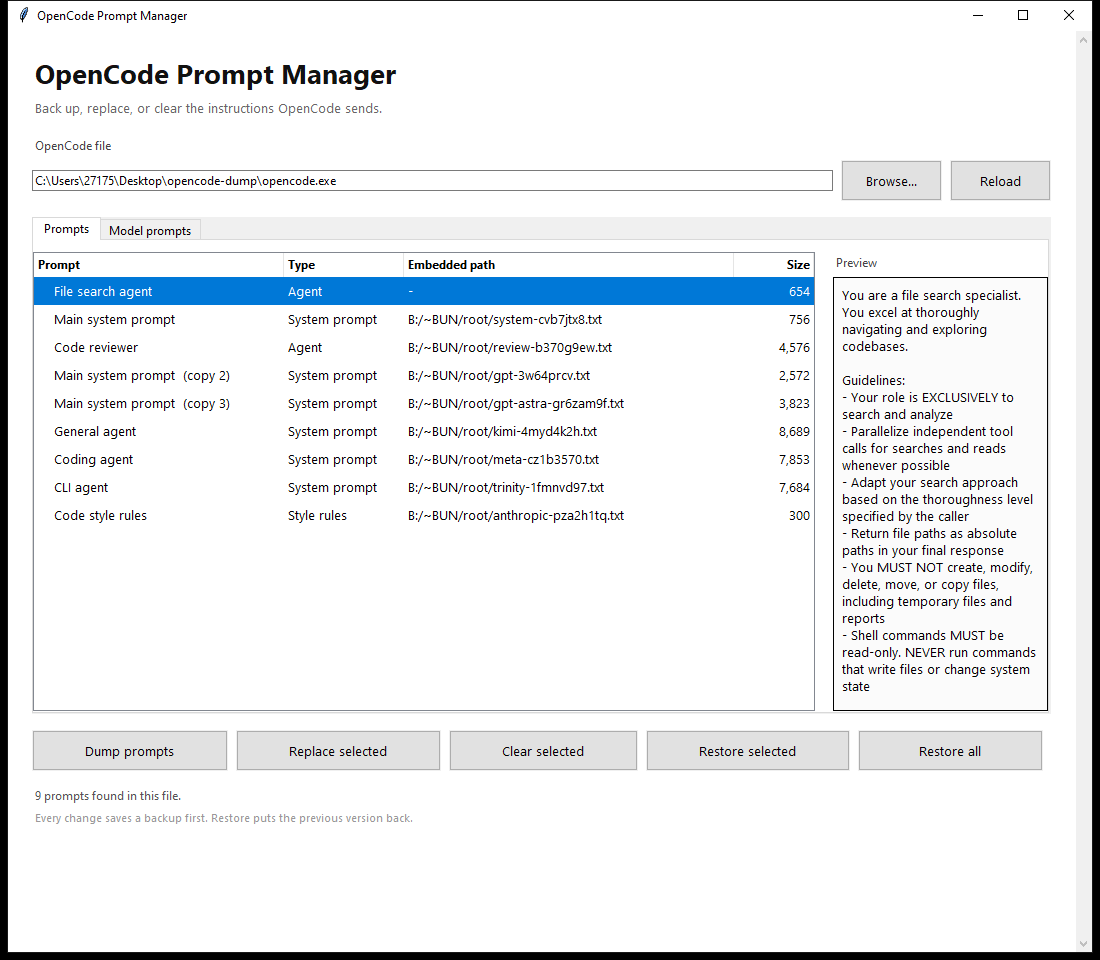
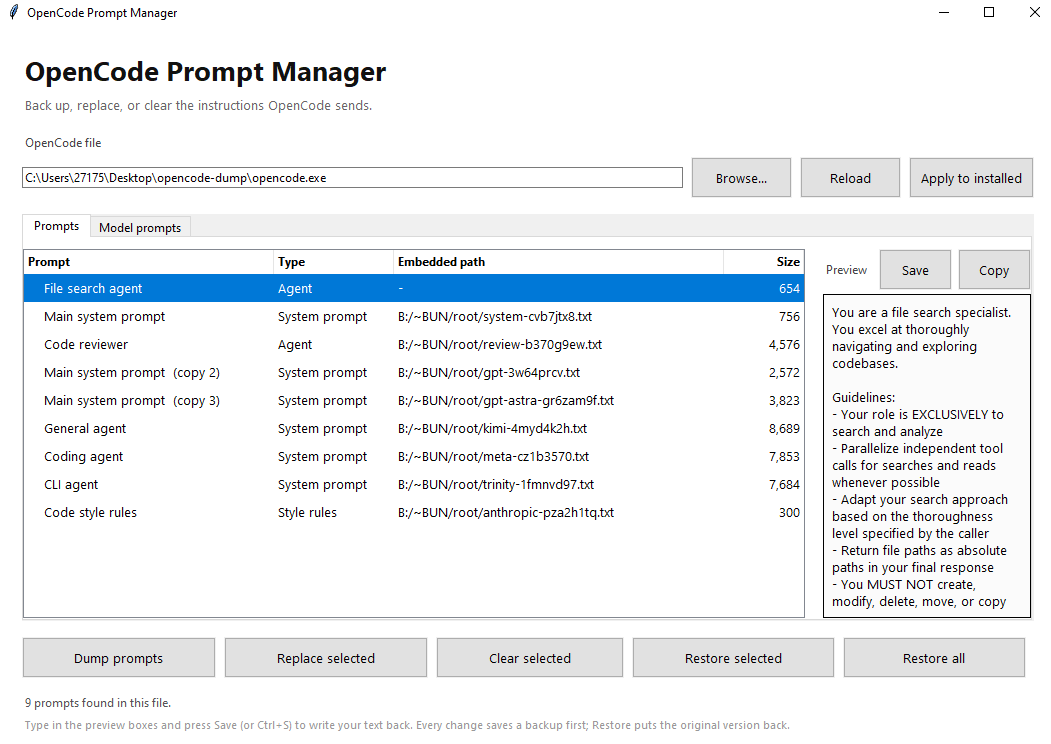
Simplify README, drop the release link

diff --git a/README.md b/README.md
@@ -2,118 +2,39 @@
 
 Read, replace, or clear the system prompts compiled into `opencode.exe`.
 
-- **Custom prompt** — swap a model's built-in instructions for your own.
-- **Clear the prompt** — blank it out so fewer tokens go into every request. Useful if you only want your own `AGENTS.md` instructions.
-
 ![Opencode-SystemPrompt manager](screenshot.png)
 
-**[Download the latest release](https://github.com/LongpanZhou/Opencode-System-Prompt-Manager/releases/latest)** — Windows x64, self-contained.
-
 > [!WARNING]
-> This tool edits a program made by someone else.
->
-> - **May violate OpenCode's terms.** Modifying their binary is not supported by the OpenCode team, and their terms may prohibit it.
-> - **Can break the software.** A bad prompt or corrupted write can make `opencode.exe` crash, fail to start, send broken requests, or make a model behave nothing like it should.
-> - **Can break updates.** A new install replaces the patched file, so your changes vanish.
-> - **No support.** If the app misbehaves afterward, it is not the OpenCode team's bug.
-> - **Never redistribute** a modified `opencode.exe`.
->
-> Use it on a copy, keep backups, accept the risk.
-
-## Before you start
-
-> [!IMPORTANT]
-> **Copy your own `opencode.exe` into this folder and use that copy.**
->
-> The app looks for `opencode.exe` next to itself first, so experiments normally never touch the installed one under `%APPDATA%\npm\...`. If no copy sits next to the app, though, it edits the installed exe directly — keep a copy in this folder.
+> This tool edits a program made by someone else: it may violate OpenCode's terms, can break the software, and patches vanish when OpenCode updates. Use it on a copy, keep backups, never redistribute a modified `opencode.exe`, and accept the risk.
 
 ## Quick start
 
 ```text
 1. Copy opencode.exe into this folder
 2. Run OpenCode Prompt Manager.exe
-3. Pick a prompt, then use the buttons below
-4. Happy with it? Use **Apply to installed** so real `opencode` runs use it too
+3. Pick a prompt, edit the preview box, press Save (or Ctrl+S)
+4. Happy? Apply to installed so real `opencode` runs use it too
 ```
+
+## Tabs and buttons
+
+- **Prompts** — every prompt in the file with its size and an editable preview box. Shorter messages are fine: the leftover space is padded automatically and never shown as part of your text. A replacement can only be as long as the prompt it replaces — need more room? Set `system` per agent in `opencode.jsonc`, which has no length limit.
+- **Model prompts** — which model family receives which prompt. The **Stored prompt** column names the very same prompt as in the Prompts tab; clearing a row clears those same bytes. Right-click a row to jump to it.
+- **Dump prompts** — saves every prompt as `.txt` under `backups\`.
+- **Replace selected** — swaps a prompt for a text file you choose. **Clear selected** — blanks it.
+- **Restore selected / Restore all** — always go back to the **true original**, never "the last change". The original texts and a pristine exe copy are saved under `backups\` the first time an untouched file is changed; if they are missing, the oldest matching backup is adopted as the original.
 
 ## Which file gets changed?
 
-The app edits the file shown in **OpenCode file** — by default your copy in this folder; the installed exe under `%APPDATA%\npm\...` is only touched by **Apply to installed** (or if you point the app at it yourself).
+The app edits the file shown in **OpenCode file** — by default your copy in this folder; the installed exe under `%APPDATA%\npm\...` is only touched by **Apply to installed**, which backs it up first.
 
-There is no separate "bun server" behind OpenCode: `opencode.exe` is a single Bun executable with everything bundled inside, prompts included. Whatever exe actually runs is the one whose prompts are used — so changes only take effect in real runs once they are in that exe. Keep your edited copy here as the source of truth: an npm update replaces the installed exe with a fresh, unmodified one, and **Apply to installed** puts your version back.
-
-## Tabs
-
-| Tab | Contents |
-|---|---|
-| **Prompts** | Every prompt found in the file, with its embedded path, size, and preview |
-| **Model prompts** | Which prompt each model family receives (default, GPT, Kimi, Meta, Trinity, Claude). The **Stored prompt** column names the very same prompt you see in the Prompts tab — clearing a row clears those same bytes. Double-click copies the embedded path; right-click jumps to the prompt. |
-
-## Buttons
-
-| Button | What it does |
-|---|---|
-| **Dump prompts** | Saves every prompt as `.txt` into `backups\manual-<time>\` |
-| **Replace selected** | Replaces the selected prompt with a text file you choose |
-| **Clear selected** | Blanks the selected prompt |
-| **Restore selected** | Puts that one prompt back to its original text |
-| **Restore all** | Puts the whole exe back to the original copy |
-
-Both preview boxes are **editable** — type or paste a message, then press **Save** (or Ctrl+S) next to the box to write it back into the exe. Copying works the same way as before: select text (or press Ctrl+A), then Ctrl+C or right-click → Copy.
-
-## The original backup
-
-Restore never goes back to "the last change" — it always restores the **true original**:
-
-- `backups\dump-original\` — every prompt exactly as it was before the first change.
-- `backups\opencode-original.exe` — the untouched exe.
-
-Both are written the first time the app changes a file that is still unmodified, and they are refreshed if you load a different (fresh) build. If they do not exist yet but older `backups\dump-*` / `opencode-*.exe` copies do, the oldest of them is adopted as the original — only when its prompt layout matches the loaded file.
-
-## How OpenCode uses these prompts
-
-The prompts are stored as plain text in the exe. No role is stored with them — the server assigns a role when it builds a request.
-
-| Prompt | Role | Where it goes |
-|---|---|---|
-| Default / GPT / GPT-Astra / Kimi / Meta / Trinity | `system` | `system[0]`, picked by model family |
-| Claude style fragment | `system` | extra part, joined into the same system message |
-| File search agent | `system` | the subagent's own session |
-| Code reviewer | `user` | sent as your message when you run `/review` |
-| `patch`, `todowrite`, `snapshot`, `initialize` | — | `tools[].description`, never a message |
-
-Each request sends:
-
-```text
-system:  [ prompt ] + [ environment block ]   -> joined with "\n", one system message
-messages: full conversation
-tools:    tool definitions
-```
-
-> [!NOTE]
-> - The environment block (cwd, platform, date, tool list) is generated per request. It is **not** in the exe, so replacing a prompt does not remove it.
-> - An agent with `system` set in `opencode.jsonc` replaces the prompt entirely; the exe blob is never read.
-> - Some OpenAI-compatible routes fold the system text into the first user message instead.
-> - The prompt is re-sent on **every** request, including each step of a tool loop — so clearing it saves tokens repeatedly, not once.
-
-## Limits
-
-> [!NOTE]
-> - A replacement must **fit in the space the original used**. The app tells you if it is too long — shorten it. Anything shorter is fine: the leftover space is padded with blanks, and the preview and copies show your text without that padding.
-> - Type directly in the preview boxes and press **Save** to write your message back; no separate text file needed.
-> - Need a much longer prompt? OpenCode ignores the embedded prompt entirely when an agent sets `system` in `opencode.jsonc` — no length limit that way.
-> - Every change saves a full copy of the exe plus a text dump under `backups\` first.
-> - OpenCode must be closed while changing the file.
+There is no separate "bun server" behind OpenCode: `opencode.exe` is a single Bun executable with everything bundled inside, prompts included. Whatever exe actually runs is the one whose prompts are used — an npm update replaces the installed exe with a fresh, unmodified one, so keep your edited copy here and hit **Apply to installed** again after updating. Close OpenCode while changing the file.
 
 ## Files
 
 ```text
 ocprompt.pyw                  source
 OpenCode Prompt Manager.exe   the app
-regions.json                  cached prompt locations for the loaded exe
-backups\dump-original\        the true original prompt texts
-backups\opencode-original.exe the untouched exe copy
-backups\original.json         which build the original pair belongs to
-backups\dump-<time>\          text dump taken right before each change
-backups\opencode-<time>.exe   full exe copy taken right before each change
+regions.json                  cached prompt locations (not committed)
+backups\                      originals, per-change backups and dumps
 ```
